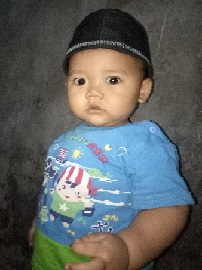
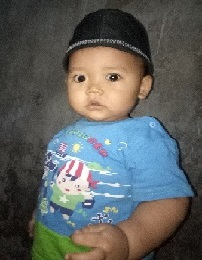
mengubah dan menambah gambar

diff --git a/Album Foto.html b/Album Foto.html
@@ -61,12 +61,12 @@
 <!--SERVICE-->
 <section>
 <div class="container">	
-		<h3 class="light center grey-text text-darken-3"><b>Album</b></h3>
+		<h3 class="light center grey-text text-darken-3"><b>Album Foto</b></h3>
 		<div class="ALBUM">
 			<div class="carousel">
-			    <a class="carousel-item" href="#!"><img src="img/7.jpeg" class="responsive-img materialboxed"></a>			    
+			    <a class="carousel-item" href="#"><img src="img/7.jpg" class="responsive-img materialboxed"></a>			    
 			    <a class="carousel-item" href="#"><img src="img/8.jpg" class="responsive-img materialboxed"></a>
-			    
+			    <a class="carousel-item" href="#"><img src="img/3.jpg" class="responsive-img materialboxed"></a>
 			</div>
 		</div>	
 </div>
@@ -82,7 +82,8 @@
 
 <!--video-->
 <section>
-	<div class="container">		
+	<div class="container">	
+		<h3 class="video"><b>Album Video</b></h3>	
 		</video>
 		<p><b>AYAH</b></p>
 		<video width="120" height="240" autoplay muted>
